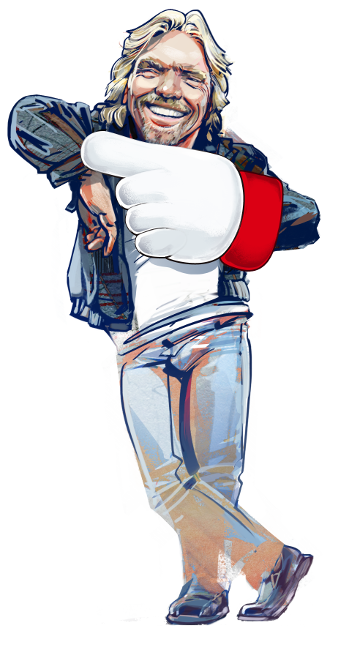
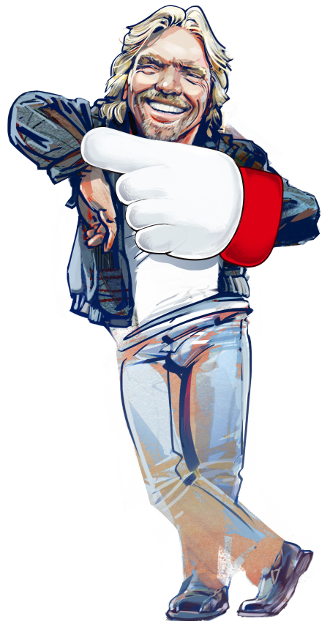
Updated virgin template

diff --git a/virgin/assets/css/default.css b/virgin/assets/css/default.css
@@ -10,60 +10,94 @@ body {
   font-family: "Helvetica Neue",  Helvetica,  Arial,  sans-serif;
   font-weight: 400;
 
-  background-color: #CFCFCF;
-  background: radial-gradient(rgb(240, 240, 240), rgb(190, 190, 190));
-  background: -o-radial-gradient(rgb(240, 240, 240), rgb(190, 190, 190));
-  background: -moz-radial-gradient(rgb(240, 240, 240), rgb(190, 190, 190));
-  background: -webkit-radial-gradient(rgb(240, 240, 240), rgb(190, 190, 190));
-  background: -webkit-gradient(radial, 50% 50%, 0, 50% 50%, 500, from(rgb(240, 240, 240)), to(rgb(190, 190, 190)));
+  background-image: url("../images/bg.jpg");
+  background-size: 100% 100%;
+  background-size: cover;
+  background-color: #FFFFFF;
+  background-repeat: no-repeat;
+  background-position: center center;
+  background-attachment: fixed;
+
+  -ms-filter: "progid:DXImageTransform.Microsoft.AlphaImageLoader(src='../images/bg.jpg',  sizingMethod='scale')"
 }
 
 .app {
   position: absolute;
-  top: 15%;
+  top: 10%;
   left:0;
   right:50%;
   bottom: 0;
 }
 
-.logo {
+.box1 {
   position: absolute;
-  top: 320px;
-  left: 50%;
-
-  min-width: 200px;
-  margin-left: 350px;
-}
-
-.rotate {
-  position: absolute;
-  top: 15%;
+  top: 10%;
   left: 50%;
   right: 0;
   bottom: 0;
+  height: 42.00em;
+  max-height: 90%;"
+}
 
-  min-height: 660px;
-  margin-top: -55px;
+.box2 {
+  position: relative;
+  top: 10%;
+  width: 100%;
+  height: 42.00em;
+  max-height: 90%;
+}
 
+.logo {
+  position: absolute;
+  top: 70%;
+  right: 6%;
+  width: 180px;
+}
+
+.cloud1 {
+  position: absolute;
+  left: -100%;
+  right: 100%;
+  bottom: -80px;
+  min-height: 200px;
+  background-image: url('../images/cloud.png');
+  background-size: 100% auto;
+}
+
+.cloud2 {
+  position: absolute;
+  left: 20%;
+  bottom: -135px;
+
+  min-width: 300px;
+  min-height: 200px;
+  margin-left: -120px;
+
+  background-image: url('../images/cloud.png');
+}
+
+.image {
+  position: relative;
+  height: 100%;
   background-image: url('../images/rb.png');
-  background-size: 350px;
+  background-size: auto 100%;
   background-repeat: no-repeat;
   background-position: -8px 0%;
 }
 
-.zef-popup-moved .rotate {
+.zef-popup-moved .image {
   -moz-animation-name: rotate;
   -moz-animation-duration:1s;
   -moz-animation-iteration-count:1;
-  -moz-animation-timing-function:ease-in;
-  -moz-transform-origin: 168px 630px;
+  -moz-animation-timing-function: ease-in;
+  -moz-transform-origin: 26% 100%;
   -moz-animation-fill-mode: forwards;
 
   -webkit-animation-name: rotate;
   -webkit-animation-duration:1s;
   -webkit-animation-iteration-count:1;
-  -webkit-animation-timing-function:ease-in;
-  -webkit-transform-origin: 168px 630px;
+  -webkit-animation-timing-function: ease-in;
+  -webkit-transform-origin: 26% 100%;
   -webkit-animation-fill-mode: forwards;
 }
 
@@ -73,7 +107,7 @@ body {
   }
 
   to {
-    -webkit-transform:rotate(-71deg);
+    -webkit-transform:rotate(-72deg);
   }
 }
 
@@ -83,7 +117,7 @@ body {
   }
 
   to {
-    -moz-transform:rotate(-71deg);
+    -moz-transform:rotate(-72deg);
   }
 }
 

diff --git a/sample/assets/css/default.css b/sample/assets/css/default.css
@@ -18,6 +18,13 @@ body {
   background-position: center center;
   background-attachment: fixed;
 
+  background-color: #CFCFCF;
+  background: radial-gradient(rgb(240, 240, 240), rgb(190, 190, 190));
+  background: -o-radial-gradient(rgb(240, 240, 240), rgb(190, 190, 190));
+  background: -moz-radial-gradient(rgb(240, 240, 240), rgb(190, 190, 190));
+  background: -webkit-radial-gradient(rgb(240, 240, 240), rgb(190, 190, 190));
+  background: -webkit-gradient(radial, 50% 50%, 0, 50% 50%, 500, from(rgb(240, 240, 240)), to(rgb(190, 190, 190)));
+  
   -ms-filter: "progid:DXImageTransform.Microsoft.AlphaImageLoader(src='../images/bg.jpg',  sizingMethod='scale')";
 }
 

diff --git a/virgin/index.html b/virgin/index.html
@@ -50,8 +50,16 @@
 	<body>
 		<div id="zef-app-5267710950768640-embed-box" class="app"></div>
 
-		<div class="rotate"></div>
+    <div class="box1">
+      <div class="image"></div>
 
-    <img class="logo" width="200px" src="assets/images/logo.png"/>
-	</body>
+      <div class="cloud1"></div>
+
+      <div class="cloud2"></div>
+    </div>
+
+    <div class="box2">
+      <img class="logo" width="200px" src="assets/images/logo.png"/>
+	  </div>
+  </body>
 </html>
